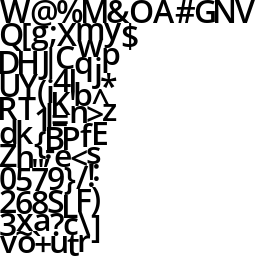
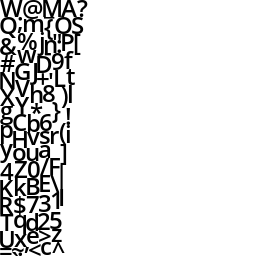
adjusted social card height

Changed region(s): [[0.0, 0.0, 1.0, 1.0]]

diff --git a/plugins/social-cards/index.js b/plugins/social-cards/index.js
@@ -25,10 +25,10 @@ module.exports = async ({ markdownNode }) => {
           {
             text: cleanedTitle,
             alignmentX: jimp.HORIZONTAL_ALIGN_LEFT,
-            alignmentY: jimp.VERTICAL_ALIGN_MIDDLE,
+            alignmentY: jimp.VERTICAL_ALIGN_TOP,
           },
           280,
-          220
+          150
         )
         .write(location)
     }
